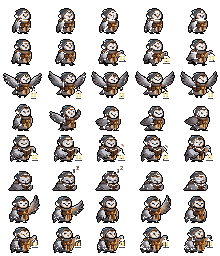
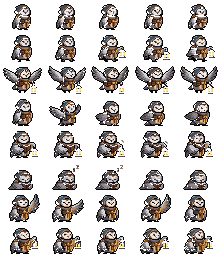
Coruja: quadros recortados pela linha real da folha (antes a grade fixa cortava os pés e trazia a ponta da linha de cima)
Claude-Session: https://claude.ai/code/session_01GbKgzzZKzHQDKNkw1eCv9w

diff --git a/src/biblioteca/sala/CorujaPixel.tsx b/src/biblioteca/sala/CorujaPixel.tsx
@@ -14,7 +14,7 @@ const APELIDOS = { repouso: 'parada', piscando: 'parada', reagindo: 'acenando', 
 export type EstadoCoruja = (typeof LINHAS_CORUJA)[number] | keyof typeof APELIDOS
 /** Estados que tocam uma vez e param (os outros repetem). */
 const UMA_VEZ: EstadoCoruja[] = ['reagindo', 'girando', 'piando', 'pousando']
-export const SPRITE_CORUJA = 'pixel/mascote/coruja-nova.png?v=1'
+export const SPRITE_CORUJA = 'pixel/mascote/coruja-nova.png?v=2'
 export const QUADRO_CORUJA = { w: 44, h: 32, pes: 31 }
 
 export function CorujaPixel({ estado, className = '', style }: { estado: EstadoCoruja; className?: string; style?: CSSProperties }) {

diff --git a/scripts/sprites/coruja_nova.py b/scripts/sprites/coruja_nova.py
@@ -27,10 +27,35 @@ def main() -> None:
     g = np.asarray(Image.open(FONTE).convert("RGB")).astype(int)
     fundo = g[0, 0]
     folha = np.zeros((QH * len(LINHAS), QW * NQ, 4), np.uint8)
+    # As linhas da folha não caem a cada 32 px certinhos (01/11/2026, Tales: "a coruja está cortada"): a grade fixa
+    # cortava os pés e trazia a ponta da linha de cima. Cada linha é achada pela faixa de pixels desenhados (fora o
+    # nome à esquerda) e recortada com a base dos pés 2 px acima do fim do quadro, igual em todas as linhas.
+    desenho = (np.abs(g - fundo).sum(2) > 0)
+    desenho[:, :X0 + 6] = False
+    tem = desenho.any(1)
+    faixas, y = [], 0
+    while y < g.shape[0]:
+        if tem[y]:
+            ini = y
+            while y < g.shape[0] and tem[y]:
+                y += 1
+            faixas.append((ini, y))
+        else:
+            y += 1
+    assert len(faixas) == len(LINHAS), f"esperava {len(LINHAS)} faixas, achei {faixas}"
     for li in range(len(LINHAS)):
+        ini, fim = faixas[li]
+        assert fim - ini <= QH - 2, f"linha {LINHAS[li]} alta demais: {fim - ini}"
+        topo = fim + 2 - QH
         for k in range(NQ):
             x = round(X0 + PASSO * k)
-            q = g[li * QH:(li + 1) * QH, x:x + QW]
+            q = np.full((QH, QW, 3), fundo)
+            pedaco = g[max(0, topo):fim + 2, x:x + QW]
+            q[QH - pedaco.shape[0]:] = pedaco
+            # Só o que pertence a esta faixa (nada da linha de cima ou de baixo).
+            fora = np.ones(QH, bool)
+            fora[QH - (fim + 2 - ini):QH] = False
+            q[fora] = fundo
             a = (np.abs(q - fundo).sum(2) > 0)
             # O fim do nome da linha (texto) às vezes entra na 1ª coluna: some o que vem antes da 1ª coluna vazia.
             if k == 0:
